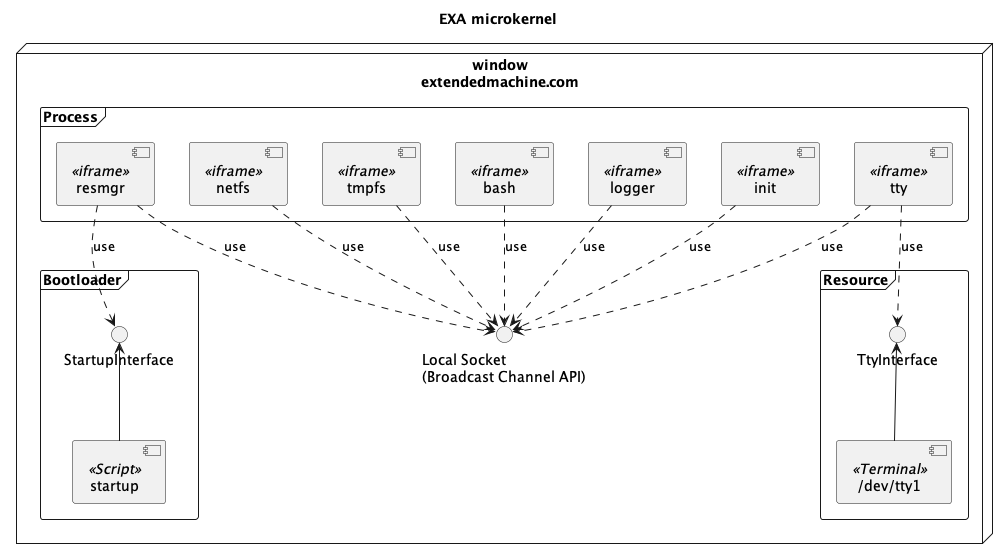
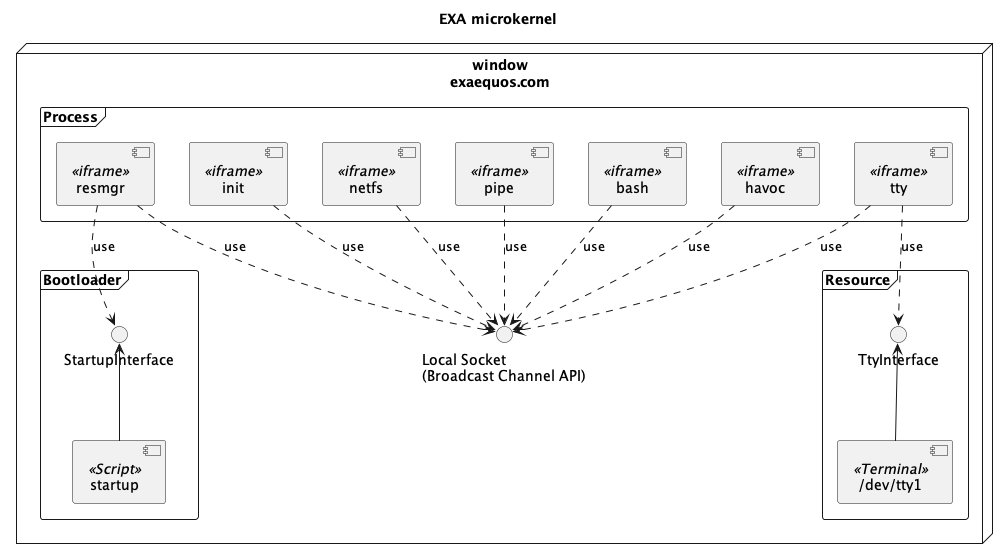
doc v1

diff --git a/source/conf.py b/source/conf.py
@@ -6,8 +6,8 @@
 # -- Project information -----------------------------------------------------
 # https://www.sphinx-doc.org/en/master/usage/configuration.html#project-information
 
-project = 'EXtended mAchine'
-copyright = '2022, Benoit Baudaux'
+project = 'exaequOS'
+copyright = '2024, Benoit Baudaux'
 author = 'Benoit Baudaux'
 
 # -- General configuration ---------------------------------------------------

diff --git a/source/dev.rst b/source/dev.rst
@@ -1,0 +1,105 @@
+Developer's guide
+=================
+
+There are two options for creating a program running in exaequOS:
+ 1. Using an interpreter inside exaequOS (lua, bwbasic and more to come)
+ 2. Developping a C/C++ program on the host machine using the emscripten-exa toolchain.
+
+
+The objective is to embed the emscripten-exa toolchain directly in exaequoOS.
+
+Supported languages
+-------------------
+
+C/C++
+^^^^^
+Programs written in C/C++ are compiled on your hoost machine with emscripten-exa toolchain, a modified version of emscripten (see below), in order to generate WebAssembly binaries (and some Javascript). These are the fastest programs that can be run in exaequOS. They can be pure console programs or using frame buffer or using Wayland protocol (buffer mode or OpenGL ES 3 mode).
+
+For using OpenGL ES 3 (i.e WebGL 2), the user can be helped by GLFW3 library or Raylib.
+
+Lua
+^^^
+Lua interpreter is installed in exaequOS and can either interpret lua files (edited by vim or ed) or can interpret user commands on the fly (CLI, command-line interface).
+
+.. image:: lua.png
+  :width: 800
+  :alt: Lua interpreter
+
+BASIC
+^^^^^
+User can also create BASIC programs that can be interpreted by bwbasic. In a same way as Lua, bwbasic can either interpret basic files or user commands with the CLI.
+
+.. image:: bwbasic.png
+  :width: 800
+  :alt: BWBASIC interpreter
+
+emscripten-exa toolchain
+------------------------
+
+The emscripten-exa toolchain is accessible on `GitHub <https://github.com/baudaux/emscripten-exa>`_.
+
+Installation
+^^^^^^^^^^^^
+Using git, you can clone the repository into your host machine. In order to use emcc or em++ compiler commands, you also need to install python3, nodejs, clang/llvm toolchain, binaryen, cmake. You can check the content of the Dockerfile for the full list of dependencies (see below).
+
+Dockerfile
+^^^^^^^^^
+
+The Dockerfile is accessible on `GitHub <https://github.com/baudaux/docker-exa>`_. It allows you to directly create a docker image on your host machine and to compile your apps in this docker.
+
+Running the compiled application
+--------------------------------
+emscripten-exa toolchain will generate (in your host machine) two files: <app name>.js and <app name>.wasm. There shall be accessible to exaequOS.
+
+Local HTTP server
+^^^^^^^^^^^^^^^^^
+An HTTP server shall run in your host machine in order to serve the application files (exa.html, <app name>.js and <app name>.wasm). Here is an example of file tree that allows exaequOS to find and execute your application:
+
+::
+
+   root server directory
+   └── media
+       └── localhost
+           └── <app name>          
+               └── exa
+                   ├── exa.html          
+                   ├── <app name>.js
+                   └── <app name>.wasm
+   
+exa.html file shall look like::
+
+  <!doctype html>
+  <html lang="en-us">
+  <head>
+    <meta charset="utf-8">
+    <meta http-equiv="Content-Type" content="text/html; charset=utf-8">
+    <title>Emscripten-Generated Code</title>
+
+    <style>
+
+      html, body {
+
+        margin : 0;
+        padding: 0;
+        border: none;
+        width: 100%;
+        height: 100%;
+      }
+
+    </style>
+  </head>
+
+  <body>
+
+    <script async type="text/javascript" src="havoc.js"></script>
+  </body>
+  
+  </html>
+
+You need to replace "havoc.js" by the generated js file name.
+  
+/media/localhost
+^^^^^^^^^^^^^^^^
+In order to execute the application, you need to open a terminal window and type (after $)::
+
+  exaequos:~ $ /media/localhost/<app name>

diff --git a/source/intro.rst b/source/intro.rst
@@ -1,3 +1,33 @@
 Introduction
 ============
 
+A Web platform for learning
+---------------------------
+
+The development of exaequOS started in November 2022 in order to become a web platform for learning computer science and programming. Why a web platform ? Because Web is everywhere, on every device. So it was an obvious reason for me to make this new platform the most accessible as possible, in a uniform way. The idea was to be able to run historical Unix and GNU/Linux programs.
+
+Thus I started at getting the emscripten project (emscripten.org) and modifying it for running the ed editor in a terminal (using xterm.js). emscripten outputs printf commmands in the console and does not manage inputs from terminal. So it leads to necessary modifications of the emscripten toolchain. After having successfully integrated ed in a Web page, I did the same with bash, a more complex exercise. I was then able to run the bash commands but not able to start programs as emscripten only manages one process per Web page. Fork/exec are missing in emscripten and they are needed for starting the creation of a new kind of operating system.
+
+Fork/exec
+---------
+
+These two system calls are the signature of a Unix-like operating system. Their implementation became possible thanks to the association process-iframe: The parent process (i.e iframe) creates a new iframe (i.e child process) with same url and duplicates its memory array (heap and stack).
+
+Usage of asyncify feature of emscripten is mandatory to allow  asynchronous Web API becoming synchronous libc (musl) functions. When implemented, I had the basis for creating the next step: a Unix-like operating system.
+
+Unix-like microkernel OS
+-----------------------
+
+I chose to implement the OS as a microkernel for avoiding a single big process (i.e iframe) handling resource management and drivers. So I decided to have one process for resource management and one process per driver. I started by the console mode (one terminal, no graphics) and added later on graphics (frame buffer, wayland, raylib engine).
+
+Programming and gaming
+----------------------
+
+As the purpose of the OS is to learn programming, I started by adding text editors (ed, vim) and interpreters (bwbasic, lua). As there are always games in every machine, I also added small games for fun (GNU Chess, Colossal Cave Adventure, Pacman, Snake, Tetris in console mode and a raylib game, the chaotic dungeon).
+
+As graphics mode came to life, I added a wayland terminal (havoc) with support of pseudo terminals (in tty driver).
+
+Application store
+-----------------
+
+One of the prime role of exaequOS is to share its own creations with others. This is made possible because everybody has the same execution environment (i.e. same OS). After developping a new app, a user will be able to publish it on the store. Once shared, the application will be searchable and executable by anybody, with no need of installation. 

diff --git a/source/exa.rst b/source/exa.rst
@@ -1,14 +1,48 @@
-EXA Operating System
-====================
+EXA kernel
+==========
 
-Architecture
-------------
+EXA kernel is a brand new Unix-like kernel specifically designed for running in a Web browser. EXA kernel is open-source (GPL v3) and can be found on `GitHub <https://github.com/baudaux/exa-kernel>`_.
+
+Microkernel architecture
+------------------------
+
+I thought (and still think) that a microkernel architecture was well suited for this kind of operating system, every driver being a process. Every process runs in its own iframe.
+
 .. image:: exa_microkernel.png
   :width: 800
   :alt: EXA microkernel
 	
 Startup sequence
 ----------------
-.. image:: boot.png
-  :width: 400
-  :alt: EXA startup sequence
+EXA kernel is started in the following order:
+ 1. Initial script starts the resource manager (resmgr),
+ 2. resmgr starts tty driver
+ 3. resmgr starts netfs driver
+ 4. resmgr starts pipe driver
+ 5. resmgr start init process (system V init)
+ 6. init reads the /etc/inittab file and starts the processes as specified in this file
+ 7. init starts localfs process
+ 8. init starts oxygen desktop process
+
+Processes
+---------
+Here is a overview of the main processes part of the kernel:
+
+ * resmgr: resource manager implementing process management, driver/device management and virtual file system (vfs)
+ * tty: driver responsible for sending characters to (pseudo-)terminal and receiving characters from it
+ * netfs: driver responsible for getting files from the server (or localhost) and mounting the remote files hierarchy on /bin, /usr/, /etc
+ * init: System V init process responsible for starting the (not yet started) processes
+ * localfs: driver responsible for reading/writing files on the local persistent browser IndexedDB storage. It is mounted on /home
+ * pipe: driver responsible for implementing the pipe mechanism of the OS
+
+These processes are written in C and compiled in WebAssembly with the emscripten-exa toolchain.
+
+Interprocess communication (IPC)
+--------------------------------
+Iframes exchange commands and data through BroadcastChannel Web API that is seen as a local socket (datagram mode).
+
+Musl libc
+---------
+
+emscripten toolchain uses musl libc. So every process is linked with musl. syscalls implementation have been addapted for communicating with resmgr and drivers.
+

diff --git a/source/start.rst b/source/start.rst
@@ -1,0 +1,50 @@
+Start guide
+===========
+
+Desktop environment
+-------------------
+
+Here is a capture of the Oxygen desktop environment.
+
+.. image:: oxygen.png
+  :width: 600
+  :alt: Oxygen desktop environment
+ 
+It allows to :
+ * Search an application
+ * Execute an application
+ * Close/minimize/maximize an application
+ * Minimize all applications
+ 
+Application search
+------------------
+Search input allows to search among the apps in the database of declared apps and published (not yet) apps. Not all binaries in netfs (/bin, /usr/bin, /usr/games, etc…) are searched. The user can then start the found application from the result list.
+
+.. image:: oxygen_search.png
+  :width: 600
+  :alt: Search in Oxygen
+	
+Havoc terminal
+--------------
+Another way of starting applications is to first start the havoc terminal and to enter the application path in the bash command line (for ex /usr/games/gnuchess or /usr/bin/vim or vim).
+
+.. image:: havoc.png
+  :width: 600
+  :alt: Havoc terminal
+	
+ 
+Close/minimize/maximize an application
+--------------------------------------
+Using the app window decoration, the user can close or minimize the associated window. The minimized windows appear on top of the search input.
+ 
+Minimize all applications
+-------------------------
+Using the “Axel” (teddy bear) icon on the right of each window decoration, the user can minimize all windows at once.
+ 
+Autoexec app
+-------------
+It is possible to define an autostart application by specifying it in the url thanks to the “a” parameter.
+For example::
+  https://exaequos.com/?a=/usr/bin/vim
+
+  

diff --git a/source/index.rst b/source/index.rst
@@ -3,15 +3,17 @@
    You can adapt this file completely to your liking, but it should at least
    contain the root `toctree` directive.
 
-EXtended mAchine
+exaequOS
 ============================================
 
-EXtended mAchine is a GNU/EXA distribution.
+This documentation will explain what is exaequOS, its origin, its purpose, its components and how to contribute to it.
 
 .. toctree::
 
    intro
+   start
    exa
+   dev
    :maxdepth: 2
    :caption: Contents:
 
